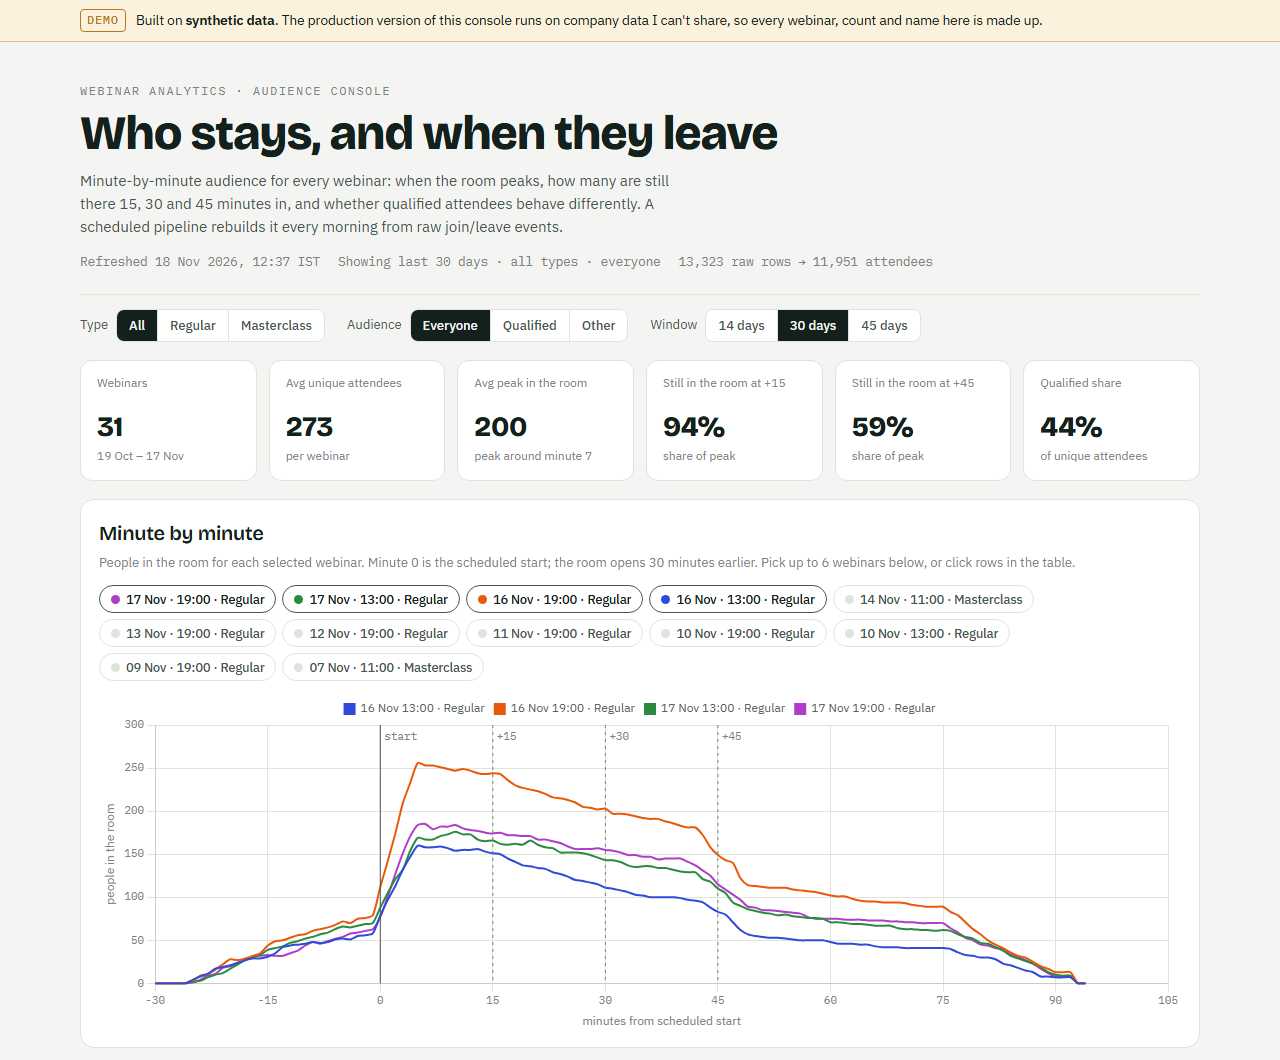
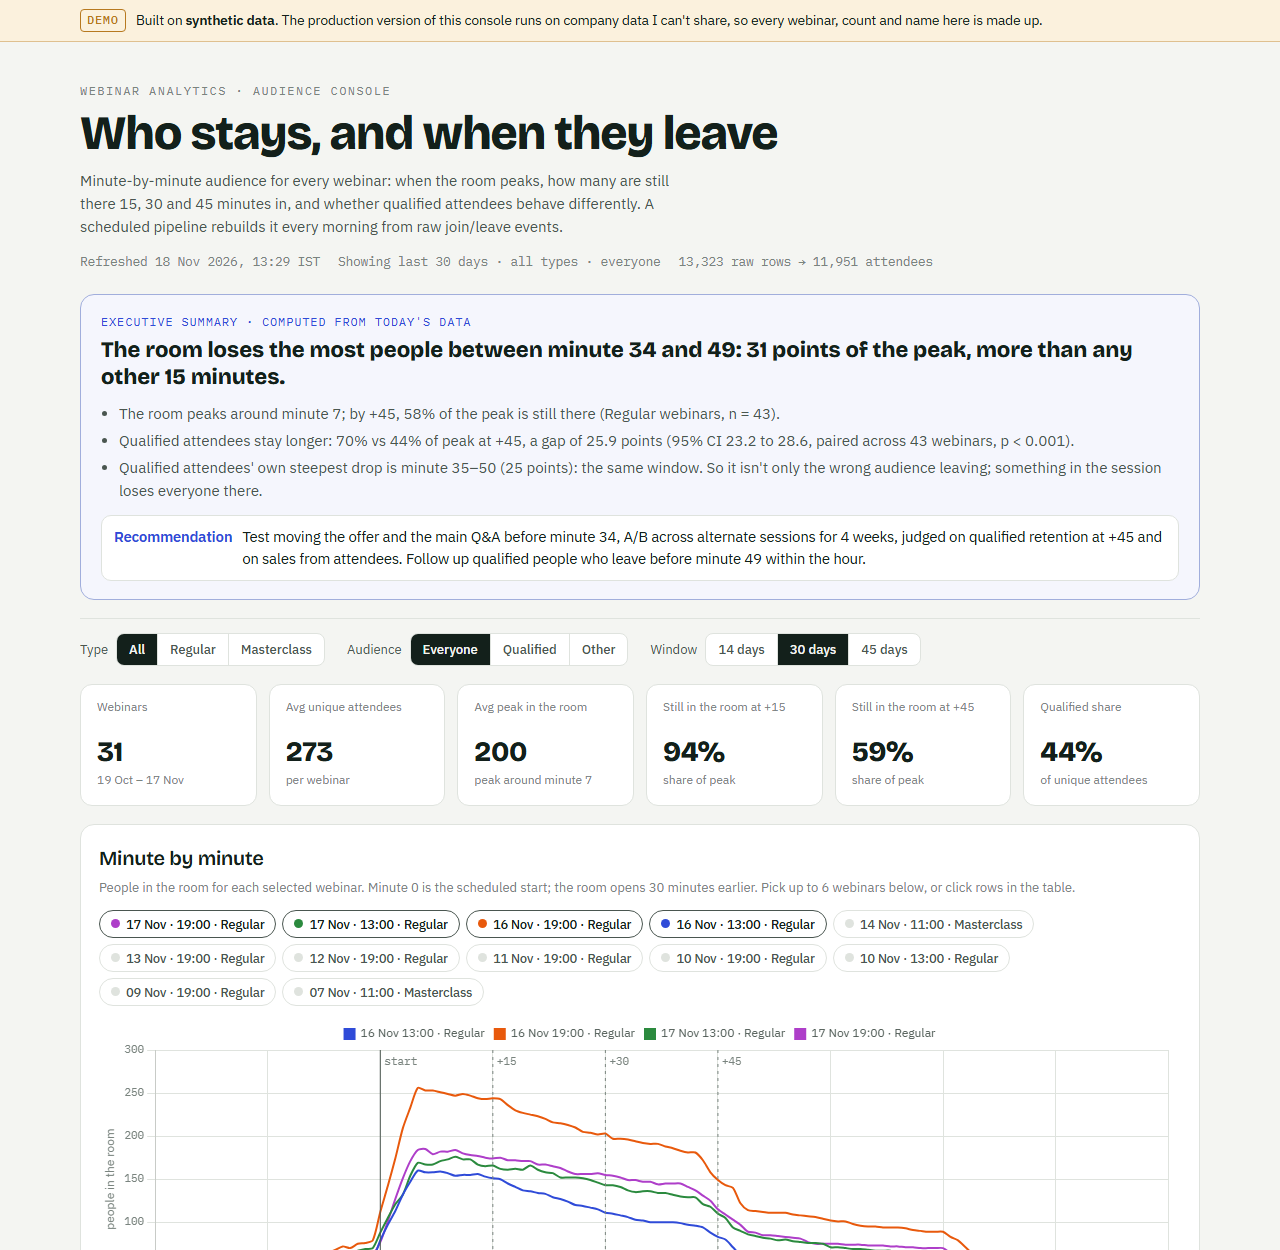
Upgrade: executive summary, statistical checks, limitations, decision memo and data dictionary

Changed region(s): [[0.0625, 0.467, 0.875, 1.0], [0.0625, 0.0623, 0.9062, 0.467], [0.0625, 0.0, 0.8125, 0.0311]]

diff --git a/site/index.html b/site/index.html
@@ -42,6 +42,13 @@ header.top{padding:40px 0 22px}
 h1{font-family:var(--f-display);font-weight:800;font-size:clamp(30px,4.6vw,48px);line-height:1.05;letter-spacing:-.02em;margin:8px 0 10px}
 .lede{color:var(--ink-2);max-width:68ch;margin:0}
 .meta{margin-top:14px;font-family:var(--f-mono);font-size:12.5px;color:var(--ink-3);display:flex;flex-wrap:wrap;gap:6px 18px}
+.exec{border:1px solid color-mix(in srgb,var(--accent) 35%,var(--line));background:color-mix(in srgb,var(--accent) 5%,var(--sheet));border-radius:14px;padding:18px 20px;margin:0 0 18px}
+.exec .lbl{font-family:var(--f-mono);font-size:11.5px;letter-spacing:.1em;text-transform:uppercase;color:var(--accent)}
+.exec h2{font-family:var(--f-display);font-weight:700;font-size:22px;line-height:1.25;margin:6px 0 10px}
+.exec ul{margin:0 0 12px;padding-left:18px;color:var(--ink-2)} .exec li{margin-bottom:4px}
+.exec .rec{display:flex;gap:10px;align-items:flex-start;background:var(--sheet);border:1px solid var(--line);border-radius:10px;padding:10px 12px;font-size:14.5px}
+.exec .rec b{color:var(--accent);flex:none}
+.limits ul{margin:0;padding-left:18px;color:var(--ink-2)} .limits li{margin-bottom:6px}
 .controls{display:flex;flex-wrap:wrap;gap:12px 22px;align-items:center;padding:14px 0 18px;border-top:1px solid var(--line)}
 .ctl{display:flex;align-items:center;gap:8px;font-size:13px;color:var(--ink-2)}
 .seg{display:inline-flex;border:1px solid var(--line);border-radius:8px;overflow:hidden;background:var(--sheet)}
@@ -109,6 +116,8 @@ footer{color:var(--ink-3);font-size:13px;padding:22px 0 40px;display:flex;flex-w
 </div></header>
 
 <main class="wrap">
+  <section class="exec" id="exec" aria-label="Executive summary"></section>
+
   <div class="controls">
     <div class="ctl">Type
       <div class="seg" id="f-type"><button data-v="all" aria-pressed="true">All</button><button data-v="Regular" aria-pressed="false">Regular</button><button data-v="Masterclass" aria-pressed="false">Masterclass</button></div>
@@ -154,6 +163,16 @@ footer{color:var(--ink-3);font-size:13px;padding:22px 0 40px;display:flex;flex-w
       </tr></thead>
       <tbody></tbody><tfoot></tfoot>
     </table></div>
+  </section>
+
+  <section class="card limits">
+    <h2>Limitations, and what I'd do next</h2>
+    <ul>
+      <li><b>Leaving isn't always losing interest.</b> Some people leave because they've decided to buy, or join late from a replay link. Next: join each attendee's leave minute to whether they bought, so the drop is split into "lost" and "done".</li>
+      <li><b>Correlation, not cause.</b> The drop lines up with a point in the session, but the console can't say what's said there. That's why the recommendation is an A/B test across alternate sessions, not a script change.</li>
+      <li><b>Minute resolution.</b> Anyone present for part of a minute counts for that minute. Fine for 15-minute windows; too coarse for second-by-second edits.</li>
+      <li><b>"Qualified" is set at registration</b> and doesn't change with what happens in the session. A better segment would add in-session signals: questions asked, polls answered.</li>
+    </ul>
   </section>
 
   <section class="card how" id="how">
@@ -352,6 +371,11 @@ footer{color:var(--ink-3);font-size:13px;padding:22px 0 40px;display:flex;flex-w
     renderTable(rows());
   });
 
+  if (D.summary) {
+    var X = D.summary;
+    document.getElementById('exec').innerHTML = '<div class="lbl">Executive summary · computed from today\'s data</div><h2>' + X.headline + '</h2><ul>' +
+      X.points.map(function(p){ return '<li>' + p + '</li>'; }).join('') + '</ul><div class="rec"><b>Recommendation</b><span>' + X.recommendation + '</span></div>';
+  }
   renderChecks(); render();
   if (document.fonts && document.fonts.ready) document.fonts.ready.then(render);   // canvas text needs the web font loaded
   if (window.matchMedia) window.matchMedia('(prefers-color-scheme: dark)').addEventListener('change', function(){ css = getComputedStyle(document.documentElement); render(); });

diff --git a/pipeline/transform.py b/pipeline/transform.py
@@ -118,7 +118,9 @@ def build(raw_dir):
         })
 
     attendees = sum(len(v) for v in per_webinar.values())
+    summary = executive_summary(out)
     return {
+        "summary": summary,
         "generated_at": dt.datetime.now(IST).strftime("%d %b %Y, %H:%M IST"),
         "synthetic": True,
         "window": {"from": out[0]["date"] if out else None, "to": out[-1]["date"] if out else None},
@@ -127,6 +129,70 @@ def build(raw_dir):
         "checks": {"raw_rows": raw_rows, "attendees": attendees,
                    "rows_collapsed": raw_rows - attendees,
                    "overlaps_merged": merged_away, "webinars": len(out)},
+    }
+
+
+def mean_ci(xs, z=1.96):
+    """Mean and normal-approximation 95% interval (fine for n >= 30 webinars)."""
+    n = len(xs)
+    if n < 2:
+        return (xs[0] if xs else None, None, None)
+    m = sum(xs) / n
+    sd = math.sqrt(sum((x - m) ** 2 for x in xs) / (n - 1))
+    h = z * sd / math.sqrt(n)
+    return (m, m - h, m + h)
+
+
+def paired_p(diffs):
+    """Two-sided p-value that the mean paired difference is zero (normal approximation)."""
+    m, lo, hi = mean_ci(diffs)
+    if lo is None:
+        return None
+    se = (hi - m) / 1.96
+    return math.erfc(abs(m / se) / math.sqrt(2)) if se else 0.0
+
+
+def biggest_drop(curves, step=15):
+    """Average curve as % of each webinar's own peak; return the 15-minute window that loses the most."""
+    pts = []
+    for c in curves:
+        peak = max(c[PRE_MINUTES:]) or 1
+        pts.append([100 * x / peak for x in c[PRE_MINUTES:PRE_MINUTES + 76]])
+    n = min(len(p) for p in pts)
+    avg = [sum(p[i] for p in pts) / len(pts) for i in range(n)]
+    best = max(range(5, n - step), key=lambda i: avg[i] - avg[i + step])
+    return best, best + step, avg[best] - avg[best + step]
+
+
+def executive_summary(webinars):
+    reg = [w for w in webinars if w["type"] == "Regular"]
+    if len(reg) < 5:
+        return None
+    diffs = [w["Qualified"]["retention"]["45"] - w["Other"]["retention"]["45"] for w in reg
+             if w["Qualified"]["retention"]["45"] is not None and w["Other"]["retention"]["45"] is not None]
+    d, dlo, dhi = mean_ci(diffs)
+    p = paired_p(diffs)
+    q45 = mean_ci([w["Qualified"]["retention"]["45"] for w in reg])[0]
+    o45 = mean_ci([w["Other"]["retention"]["45"] for w in reg])[0]
+    a, b, lost = biggest_drop([[q + o for q, o in zip(w["curve"]["Qualified"], w["curve"]["Other"])] for w in reg])
+    qa, qb, qlost = biggest_drop([w["curve"]["Qualified"] for w in reg])
+    same = abs(qa - a) <= 5
+    peak_min = mean_ci([w["all"]["peak_minute"] for w in reg if w["all"]["peak_minute"] is not None])[0]
+    pstr = "p < 0.001" if p is not None and p < 0.001 else f"p = {p:.3f}"
+    return {
+        "headline": f"The room loses the most people between minute {a} and {b}: {lost:.0f} points of the peak, more than any other 15 minutes.",
+        "points": [
+            f"The room peaks around minute {peak_min:.0f}; by +45, {mean_ci([w['all']['retention']['45'] for w in reg])[0]:.0f}% of the peak is still there (Regular webinars, n = {len(reg)}).",
+            f"Qualified attendees stay longer: {q45:.0f}% vs {o45:.0f}% of peak at +45, a gap of {d:.1f} points "
+            f"(95% CI {dlo:.1f} to {dhi:.1f}, paired across {len(diffs)} webinars, {pstr}).",
+            (f"Qualified attendees' own steepest drop is minute {qa}–{qb} ({qlost:.0f} points): the same window. "
+             "So it isn't only the wrong audience leaving; something in the session loses everyone there." if same else
+             f"Qualified attendees' steepest drop is at a different point (minute {qa}–{qb}, {qlost:.0f} points), "
+             "so the main drop is mostly the less-qualified audience leaving."),
+        ],
+        "recommendation": (f"Test moving the offer and the main Q&A before minute {a}, A/B across alternate sessions for 4 weeks, "
+                           f"judged on qualified retention at +45 and on sales from attendees. Follow up qualified people "
+                           f"who leave before minute {b} within the hour."),
     }
 
 

diff --git a/tests/test_transform.py b/tests/test_transform.py
@@ -4,7 +4,7 @@ import sys
 import unittest
 
 sys.path.insert(0, os.path.join(os.path.dirname(__file__), "..", "pipeline"))
-from transform import merge_sessions, minute_grid  # noqa: E402
+from transform import mean_ci, merge_sessions, minute_grid, paired_p  # noqa: E402
 
 
 class MergeSessions(unittest.TestCase):
@@ -29,6 +29,18 @@ class MinuteGrid(unittest.TestCase):
 
     def test_clipped_to_window(self):
         self.assertEqual(minute_grid([[-40, -28]], -30, 100), {-30, -29})
+
+
+class Stats(unittest.TestCase):
+    def test_mean_ci_brackets_the_mean(self):
+        m, lo, hi = mean_ci([10, 12, 14, 16, 18] * 8)
+        self.assertAlmostEqual(m, 14); self.assertTrue(lo < 14 < hi)
+
+    def test_no_difference_is_not_significant(self):
+        self.assertGreater(paired_p([1, -1, 2, -2, 0.5, -0.5] * 6), 0.5)
+
+    def test_consistent_gap_is_significant(self):
+        self.assertLess(paired_p([24, 26, 25, 27, 23, 25] * 6), 0.001)
 
 
 if __name__ == "__main__":

diff --git a/README.md b/README.md
@@ -14,6 +14,15 @@
 
 > **Demo with synthetic data.** I built and run the production version of this console on company data I can't share. This repo is a clean-room rebuild: fresh code, made-up webinars and attendees, and the same analytical rules. Every number you see here is synthetic.
 
+## Executive summary
+
+- **The room loses most people in one 15-minute window (about minute 34–49): around 30 points of the peak.**
+- **Qualified attendees stay longer:** about 70% vs 44% of peak at +45, a 26-point gap (95% CI 23–29, paired across 43 webinars, p < 0.001).
+- **But qualified people's steepest drop is in the same window**, so it isn't just the wrong audience leaving. Something in the session at that point loses everyone.
+- **Recommendation:** move the offer and the main Q&A before the drop in alternate sessions for 4 weeks, and judge on qualified retention *and* attendee sales. Full reasoning in the **[decision memo](docs/decision_memo.md)**.
+
+*The live page recomputes this summary from each morning's data.*
+
 ## The problem
 
 A team runs a webinar almost every day and treats it as its main top-of-funnel event. Attendance alone tells them very little. The questions that matter are:
@@ -61,6 +70,23 @@ flowchart LR
 - **Timestamps are converted from UTC to IST once, in the transform**, never in the page.
 
 The tricky parts (overlapping devices, sub-minute rejoins, clipping to the window) are covered by unit tests in `tests/`.
+
+## Statistical checks
+
+- **Qualified vs Other** is a *paired* comparison: the gap is measured inside each webinar, then averaged with a 95% interval. That removes session-to-session differences (topic, day, audience size) from the comparison.
+- **The drop window** is found on curves normalised to each webinar's own peak before averaging, so one big Masterclass can't set the pattern.
+
+## Limitations, and what I'd do next
+
+- **Leaving isn't always losing.** Some leave because they've decided to buy. Next: join each attendee's leave minute to purchases to split "lost" from "done".
+- **Correlation, not cause.** The drop lines up with a point in the session; only an A/B test shows what fixes it.
+- **Minute resolution** is right for 15-minute windows, too coarse for second-level edits.
+- **"Qualified" is fixed at registration.** In-session signals (questions, polls) would make a better segment.
+
+## Documents
+
+- **[Decision memo](docs/decision_memo.md):** the decision, evidence, options, recommendation, and what would change it
+- **[Data dictionary](docs/data_dictionary.md):** every column, metric definition and statistical check
 
 ## Run it locally
 

diff --git a/docs/decision_memo.md b/docs/decision_memo.md
@@ -1,0 +1,34 @@
+# Decision memo: where the webinar loses its audience
+
+**To:** Head of Marketing, webinar presenters · **From:** Analytics · **Data:** synthetic demo, last 45 days
+
+> Figures are from the live demo on the day this memo was written. The [live executive summary](https://nikhilveerwani.github.io/webinar-audience-console/) recomputes them every morning.
+
+## The decision
+
+The webinar is the main top-of-funnel event. Should we change how the session is structured, and if so, where?
+
+## What we found (Regular webinars, n ≈ 43)
+
+1. **The room peaks around minute 7, then loses most people in one window: minute 34–49.** That 15 minutes costs about 30 points of the peak, more than any other 15 minutes in the session.
+2. **Qualified attendees stay much longer:** about 70% of peak at +45 against 44% for everyone else. The gap is about 26 points (95% CI 23–29, paired across webinars, p < 0.001), so it's consistent session after session, not a few outliers.
+3. **But qualified attendees' steepest drop is in the same window (minute 35–50).** So the drop is not just the wrong audience filtering itself out. Something at that point in the session loses everyone, including the people we most want to keep.
+
+## Options
+
+| Option | Upside | Risk |
+|---|---|---|
+| A. Leave the session as it is | No effort | Keeps losing a third of the room, including qualified people, before the offer lands |
+| B. Rewrite the whole session | Could fix more than one issue | Many changes at once: we won't know what worked |
+| **C. Move one thing and test it (recommended)** | Isolates the cause; cheap to run | Takes 4 weeks |
+
+## Recommendation: Option C
+
+1. **Move the offer and the main Q&A before minute 34** in alternate sessions for 4 weeks. Keep everything else the same.
+2. **Judge on two numbers:** qualified retention at +45, and sales from attendees within 30 days. Retention alone could rise while sales fall, if the offer lands too early.
+3. **Meanwhile, follow up within the hour with qualified attendees who leave before minute 49.** They showed intent by registering and attending; they're the warmest list we have.
+
+## What would change this recommendation
+
+- The leave-time data shows most leavers in that window had **already bought** or booked a call. Then the drop is success, not loss, and the session should stay as it is.
+- The A/B shows retention rising but attendee sales flat: then the issue is the offer itself, not where it sits.

diff --git a/docs/data_dictionary.md b/docs/data_dictionary.md
@@ -1,0 +1,48 @@
+# Data dictionary
+
+## Inputs (synthetic, from `pipeline/generate_raw_events.py`)
+
+### `webinars.csv`: one row per webinar
+
+| Column | Type | Meaning |
+|---|---|---|
+| `webinar_id` | text | `W<yyyymmdd><slot>` |
+| `title` | text | Session title |
+| `webinar_type` | text | Regular (75 min, weekdays) or Masterclass (110 min, Saturdays) |
+| `scheduled_start_utc` | timestamp (UTC) | Scheduled start. **This is minute 0** |
+| `scheduled_minutes` | integer | Planned length |
+
+### `participants.csv`: one row per join/leave **session** (not per person)
+
+| Column | Type | Meaning |
+|---|---|---|
+| `webinar_id` | text | Webinar |
+| `attendee_id` | text | Person (hashed). Can appear several times: rejoins, second devices |
+| `segment` | text | Qualified / Other, set at registration |
+| `join_time_utc`, `leave_time_utc` | timestamp (UTC) | One continuous session in the room |
+
+## Output: `site/data.js`
+
+| Field | Meaning |
+|---|---|
+| `webinars[]` | Per webinar: uniques by segment, average watch minutes, peak and peak minute, retention at +15/+30/+45 (overall and by segment), and the per-minute curve by segment from minute −30 |
+| `checks` | Raw rows, attendees after merging, rows collapsed (rejoins and devices), webinar count |
+| `summary` | Executive summary: headline, points, recommendation |
+
+## Metric definitions
+
+| Metric | Definition |
+|---|---|
+| **In the room at minute m** | Distinct people with any session overlapping [m, m+1), after merging each person's sessions |
+| **Peak** | Highest in-room count from minute 0 on (lobby arrivals before the start can't set it) |
+| **Retention at +N** | In-room at minute N ÷ peak |
+| **Unique attendees** | Distinct people with at least one session |
+| **Average watch** | Mean minutes in the room between minute 0 and the end of the curve |
+| **Biggest drop** | The 15-minute window where the average curve (as % of each webinar's own peak) falls most |
+
+## Statistical checks
+
+| Claim | Method |
+|---|---|
+| Qualified stay longer | Paired difference (Qualified − Other retention at +45) per webinar. Mean, 95% normal interval, two-sided p |
+| Where the room drops | Each webinar normalised to its own peak before averaging, so large sessions don't dominate |
